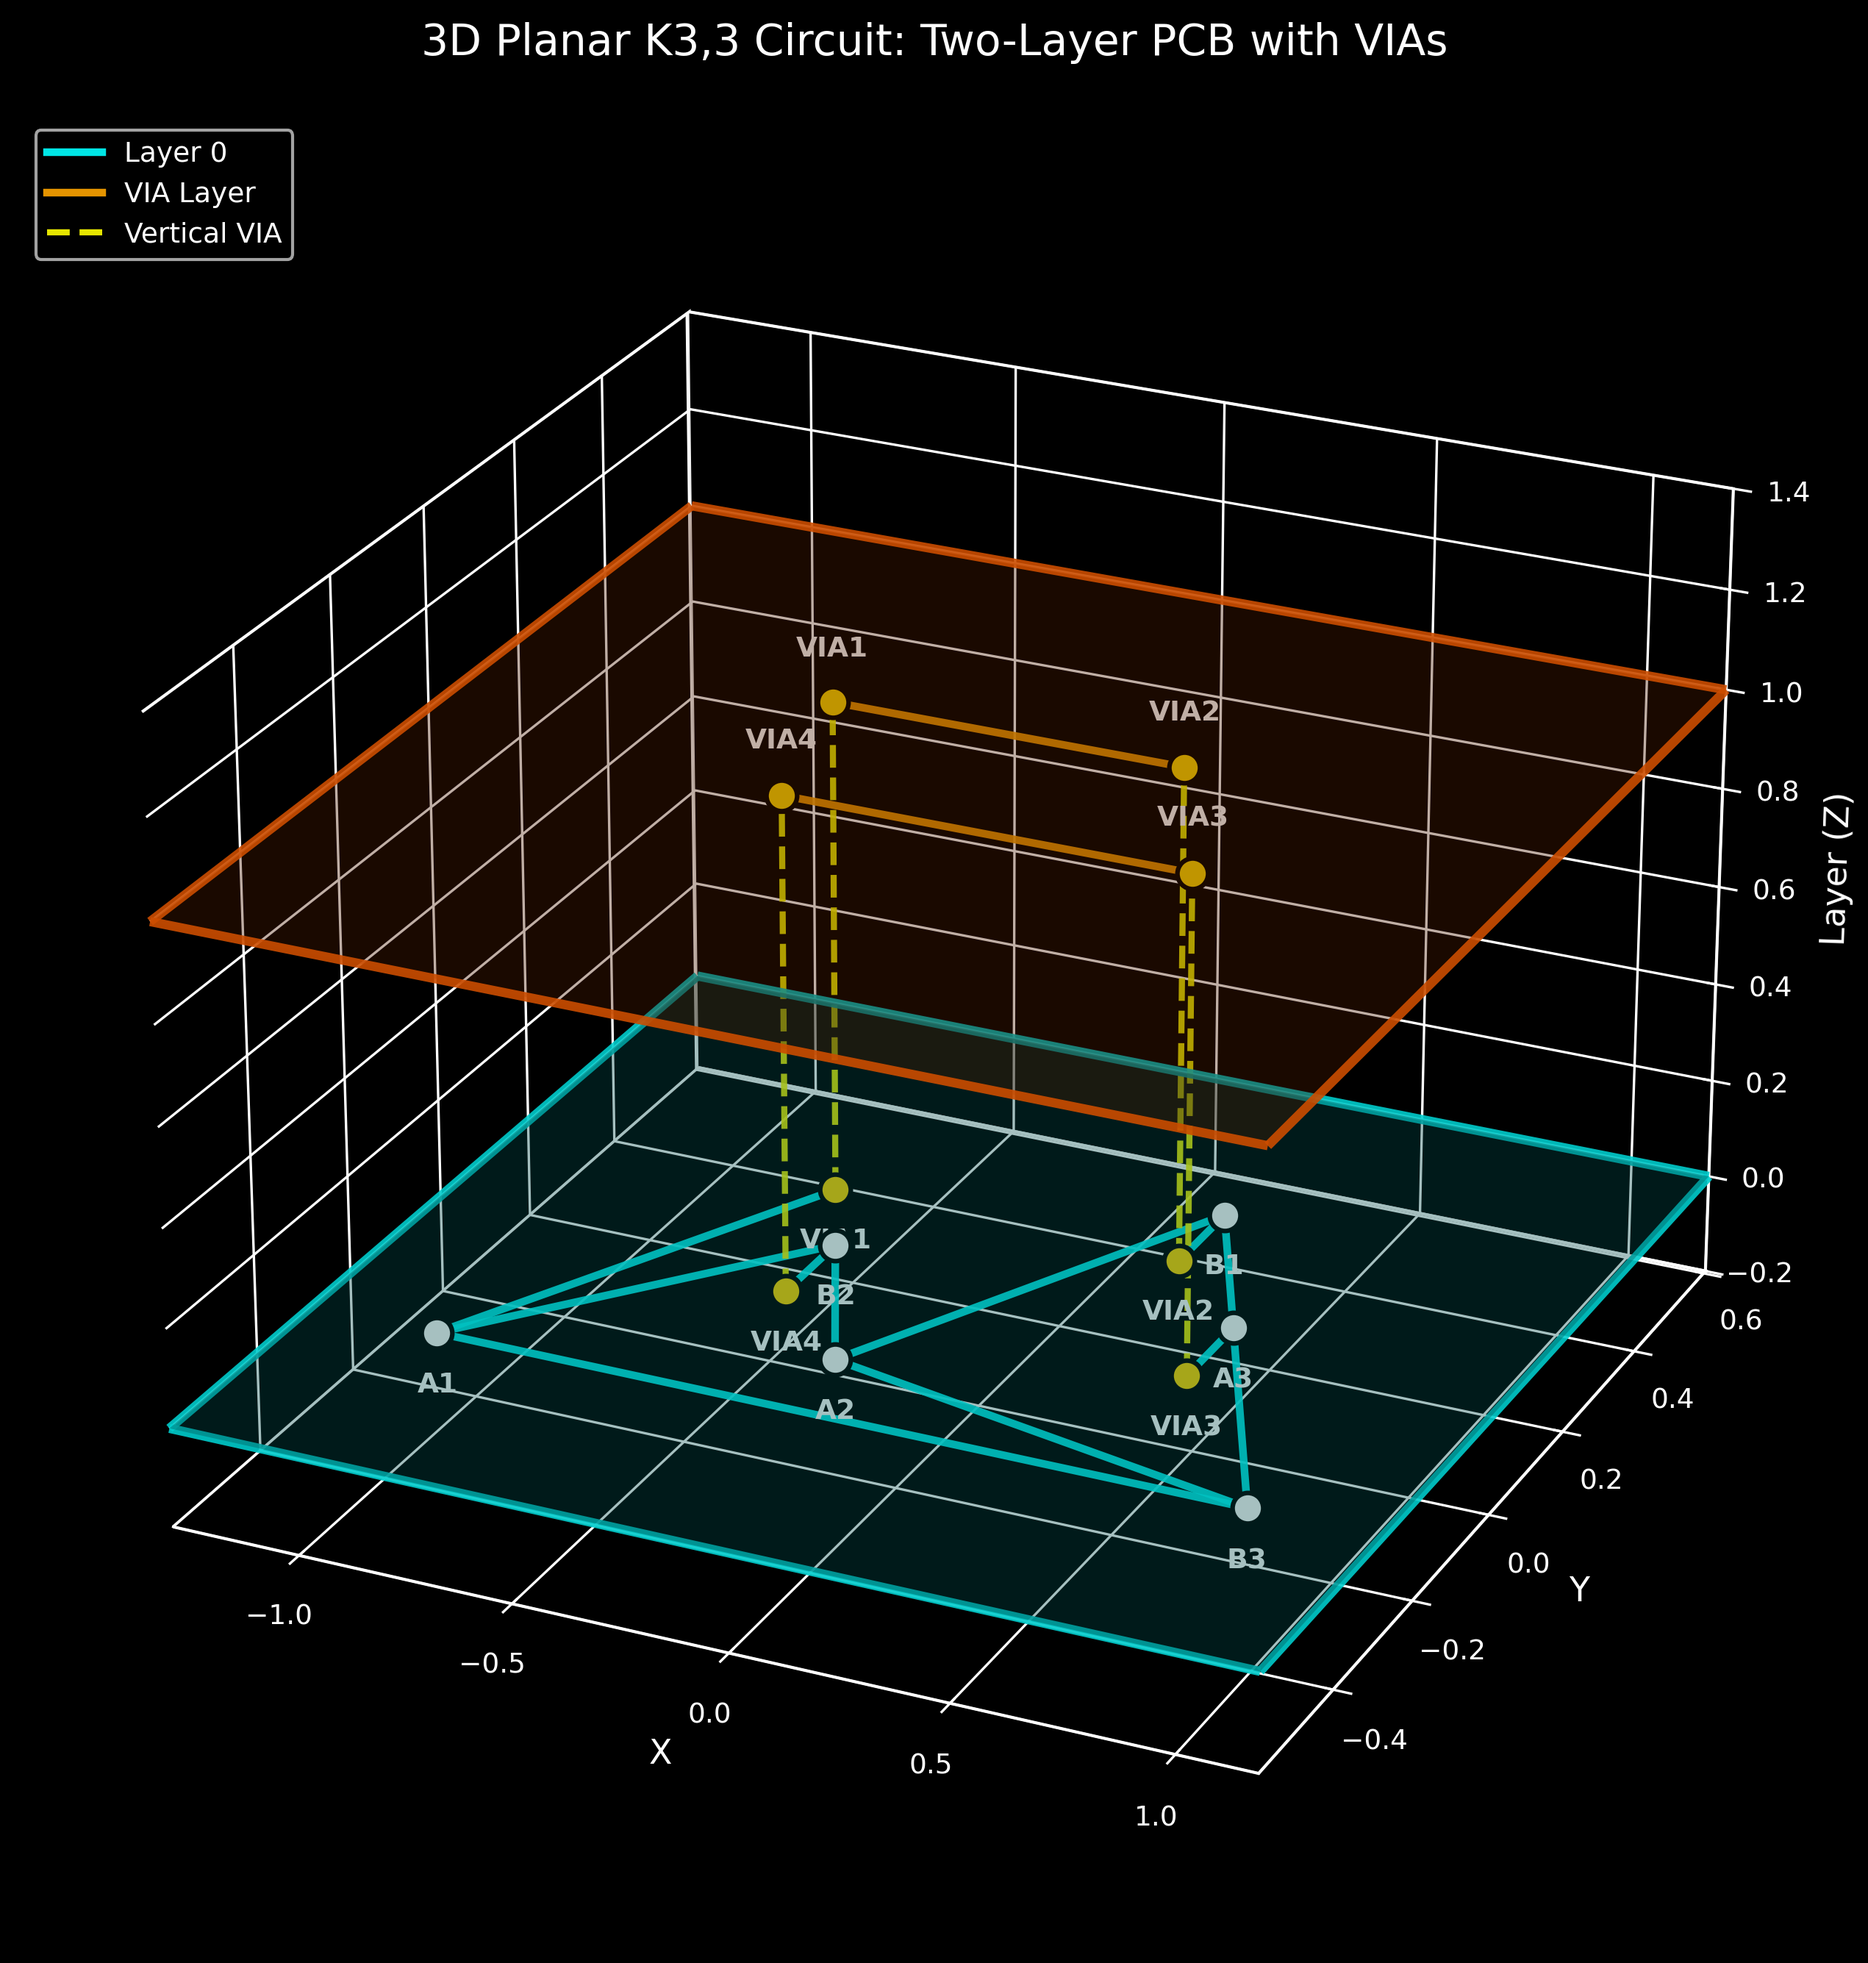
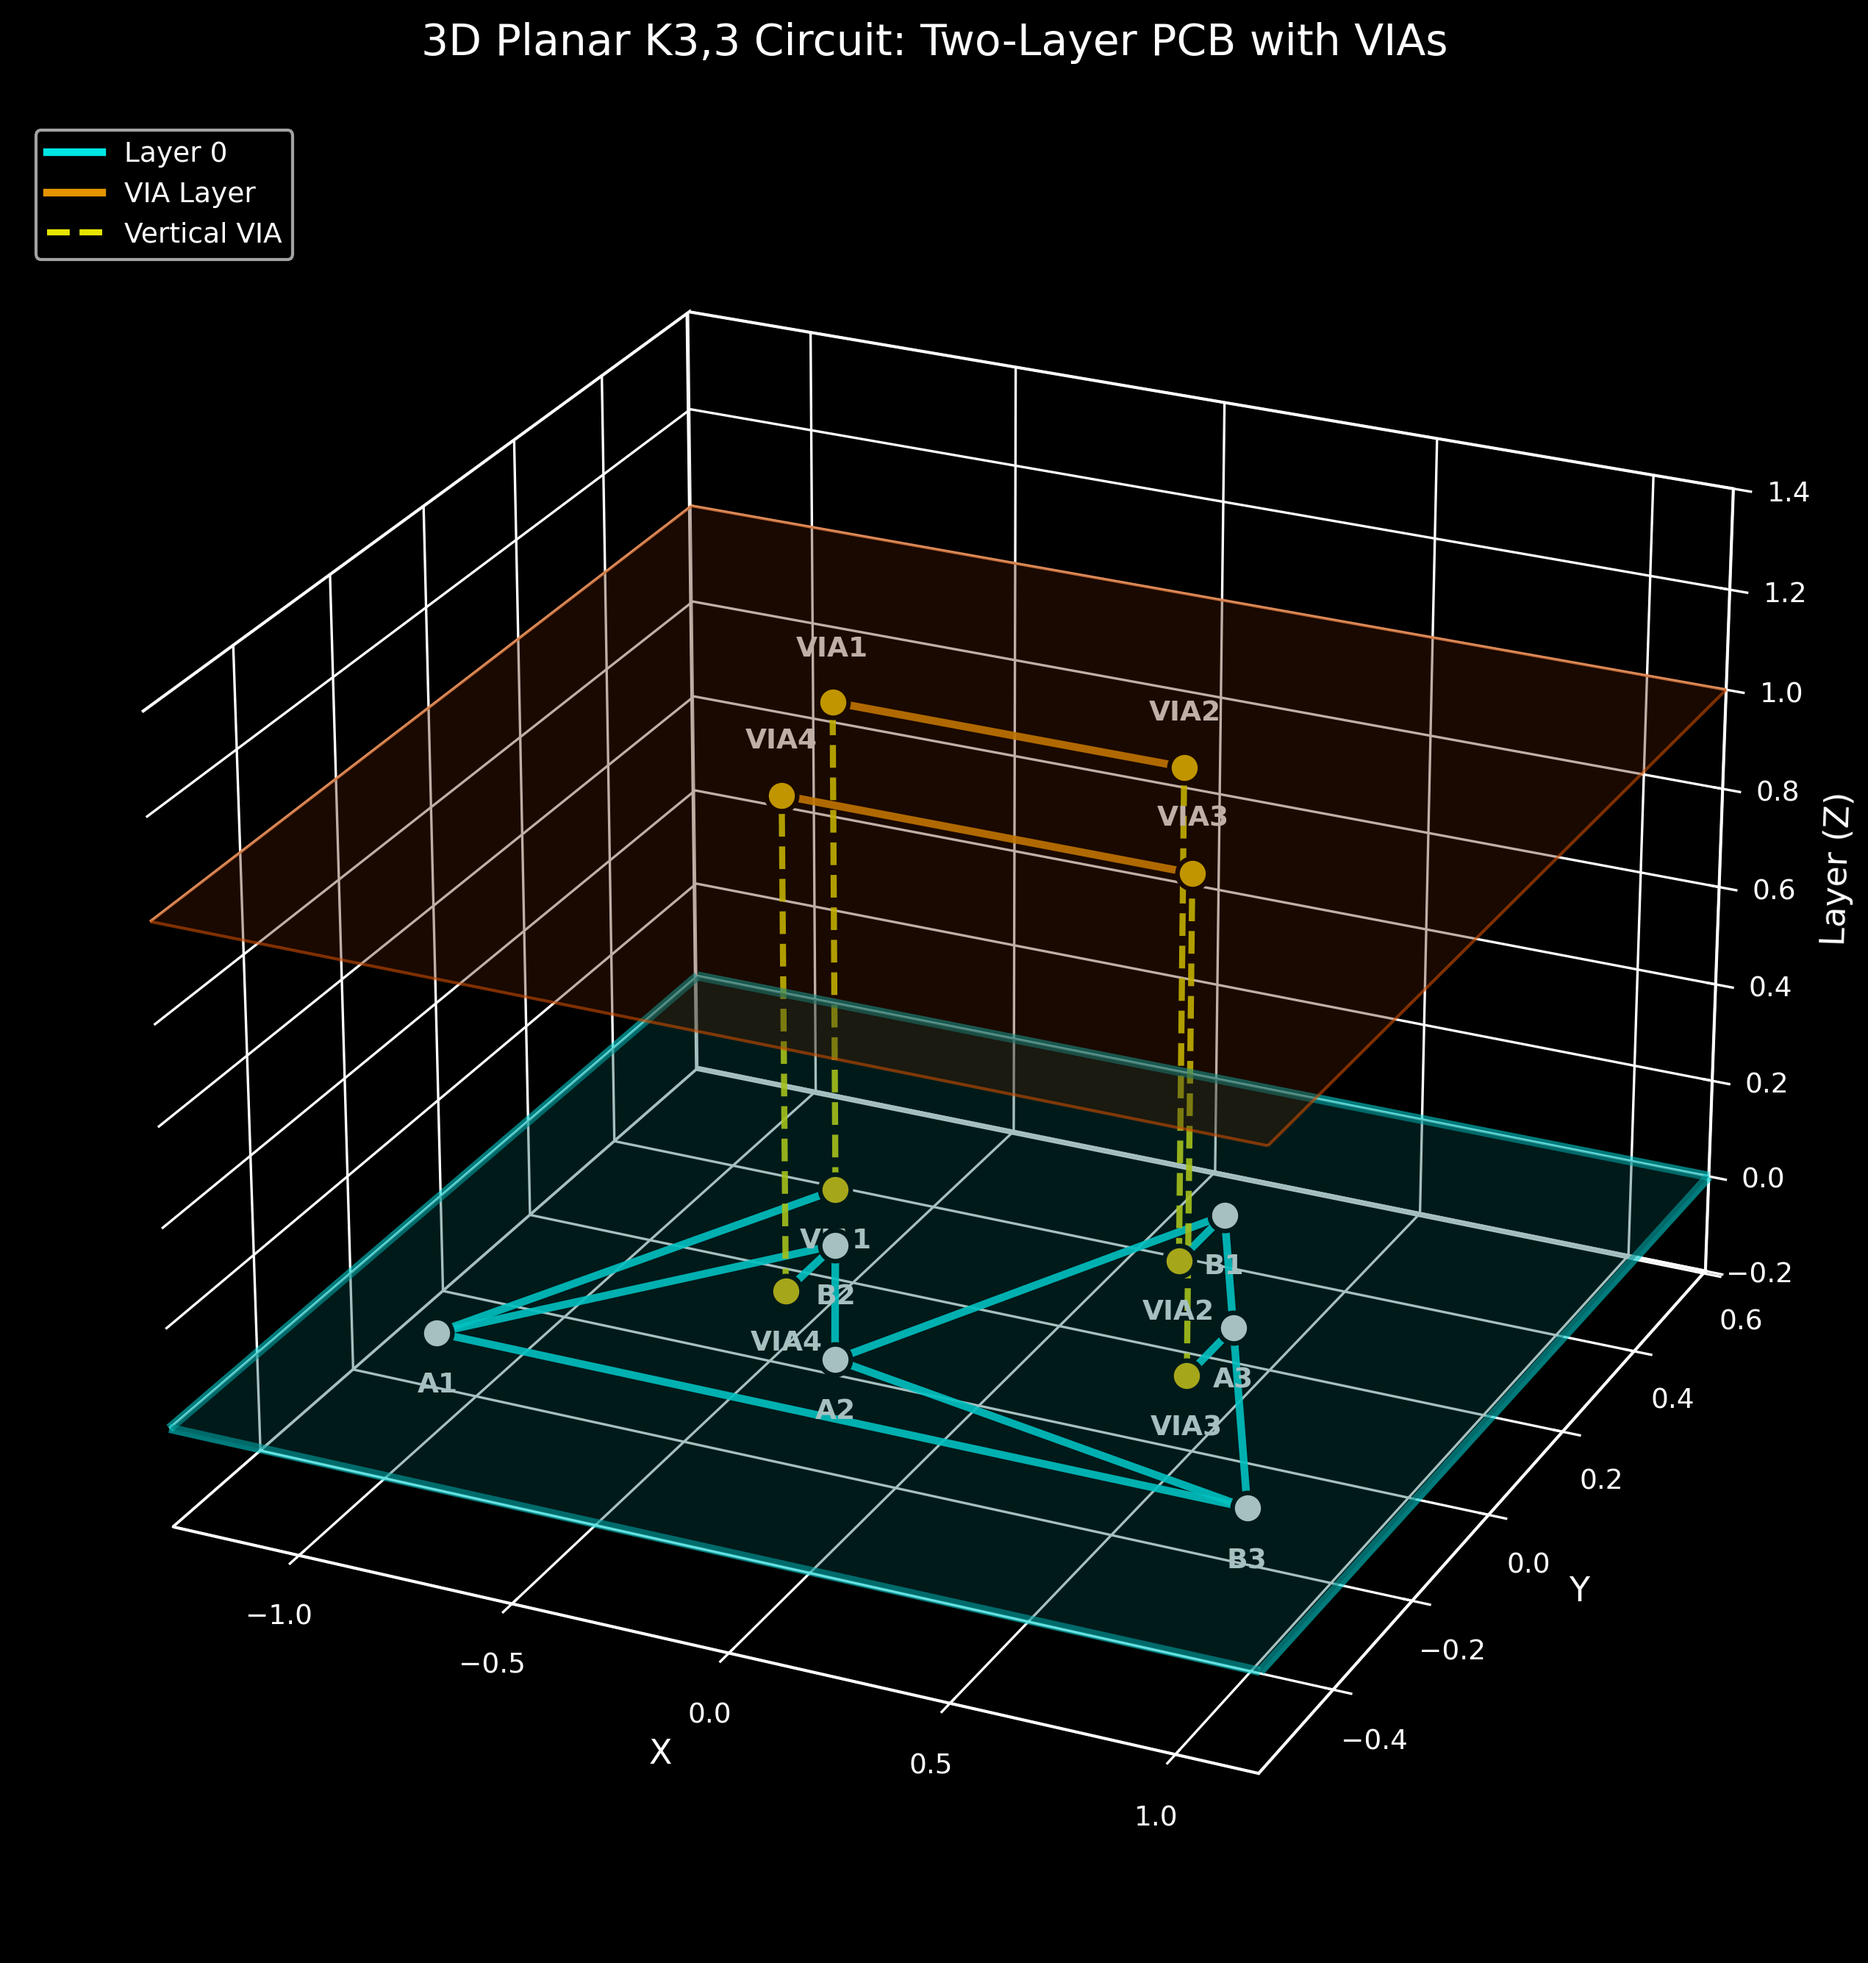
updated circuit visualization 3D

diff --git a/functions/3D_Circuit_Visualization.py b/functions/3D_Circuit_Visualization.py
@@ -152,7 +152,7 @@ def visualize_k33_layers_3d(df_modified, via_csv_path, out_folder="Figures", sho
         [(xmax, ymax, 0.0), (xmin, ymax, 0.0)],
         [(xmin, ymax, 0.0), (xmin, ymin, 0.0)]
     ]
-    border_z0 = Line3DCollection(border_z0_edges, colors=(0.0, 0.8, 0.8), linewidths=3, alpha=0.9)
+    border_z0 = Line3DCollection(border_z0_edges, colors=(0.0, 0.8, 0.8), linewidths=3, alpha=0.6)
     ax.add_collection3d(border_z0)
     
     # Layer 1 border (orange/red color)
@@ -162,7 +162,7 @@ def visualize_k33_layers_3d(df_modified, via_csv_path, out_folder="Figures", sho
         [(xmax, ymax, 1.0), (xmin, ymax, 1.0)],
         [(xmin, ymax, 1.0), (xmin, ymin, 1.0)]
     ]
-    border_z1 = Line3DCollection(border_z1_edges, colors=(0.8, 0.3, 0.0), linewidths=3, alpha=0.9)
+    border_z1 = Line3DCollection(border_z1_edges, colors=(0.8, 0.3, 0.0), linewidths=1, alpha=0.6)
     ax.add_collection3d(border_z1)
     
     # Draw edges for Layer 0 (modified graph with pad-VIA connections)
